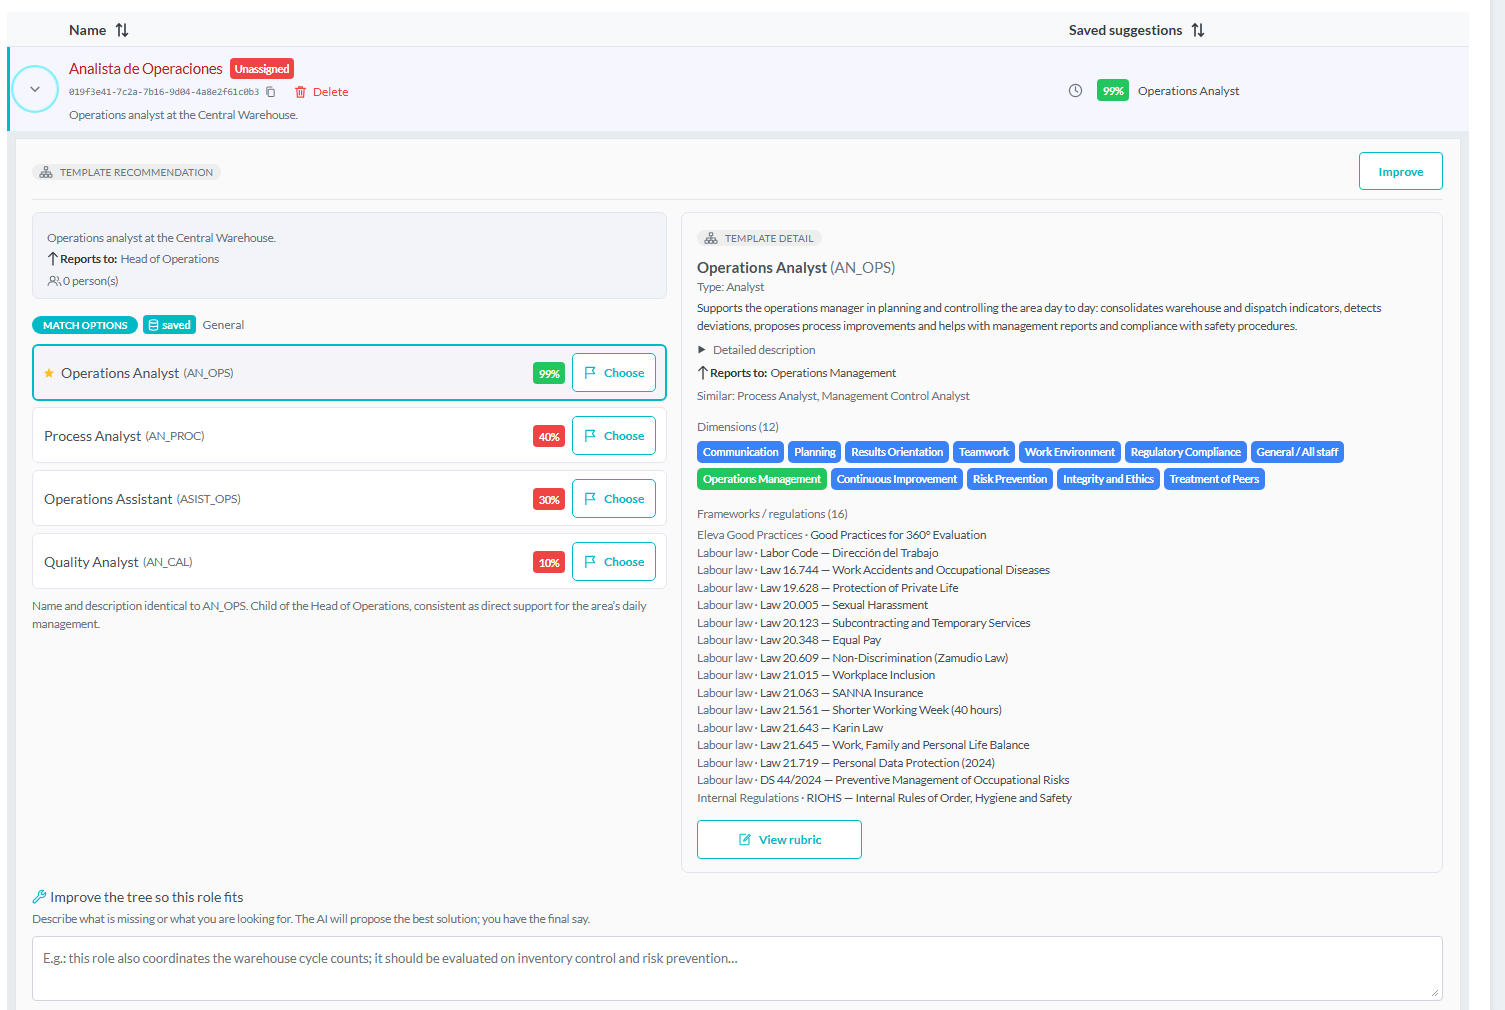
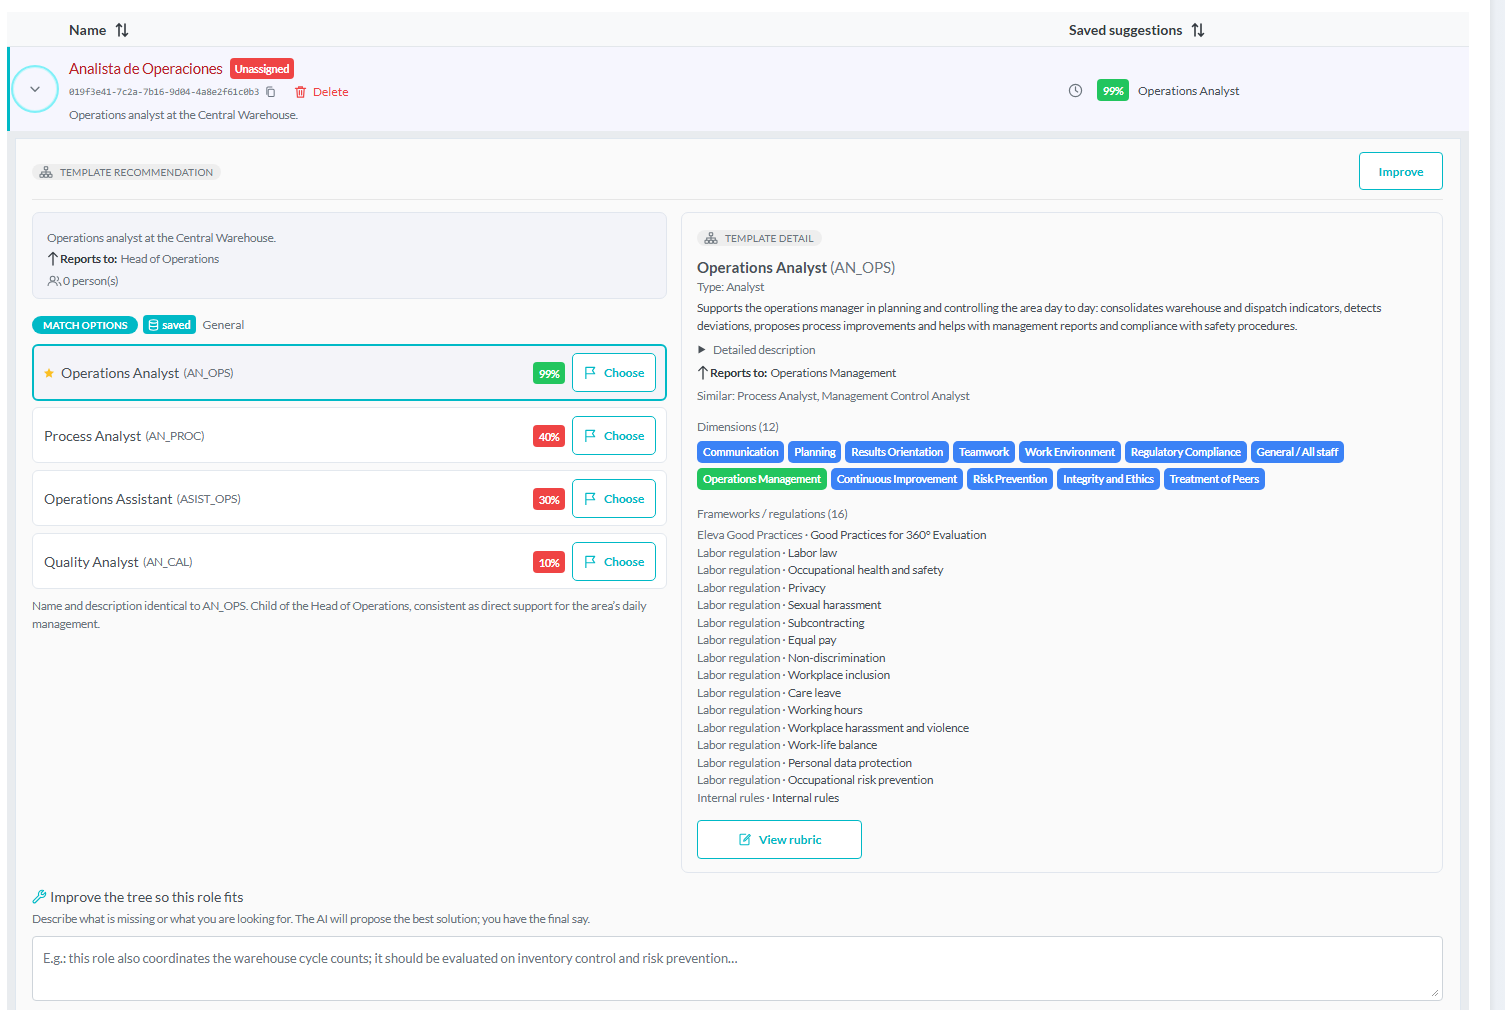
content: eleva.works no longer tied to Chile; neutral rotating phrases
- Landing and methodology copy (ES/EN) refer to the labour regulations that
  apply to the company instead of Chilean law: the example rubric now lists
  regulation areas (labour law, workplace harassment, equal pay,
  non-discrimination, health and safety, data protection...) without law
  numbers; tagline and footer drop "in Chile"; the English FAQ keeps the GDPR
  as a familiar reference.
- Product mockups re-rendered with the same regulation areas; Spanish name
  variants labelled ES.
- Hero rotating phrases: "sin formularios planos" / "without flat forms" and
  "con la normativa vigente" / "with current regulations".
- Regulation inset crop moved up to include its heading.
- Kept: Eleva SpA's address and governing law in the legal pages, and the
  Startup Chile award.

Changed region(s): [[0.4684, 0.5218, 0.7183, 0.798]]

diff --git a/design/mockups/generated-evaluation-rubric.html b/design/mockups/generated-evaluation-rubric.html
@@ -73,23 +73,23 @@ es:{title:'Pauta evaluativa generada',role:'Gerente General',meta:'GG · 116 pre
  dimsH:'Dimensiones del cargo (11)',
  dims:['Administración y Finanzas','Adquisiciones y Logística','Comunicación','Cuidado del Entorno','Cumplimiento Normativo','General / Todos los trabajadores','Gestión de Equipos','Liderazgo','Planificación','Trato con Clientes','Trato con Pares'],
  normsH:'Normativas y marcos que esta pauta evalúa (12)',
- ndesc:'Las preguntas seleccionadas para este cargo se alinean con la siguiente normativa nacional y marcos profesionales:',
+ ndesc:'Las preguntas seleccionadas para este cargo se alinean con la siguiente normativa vigente y marcos profesionales:',
  norms:[['Buenas Prácticas Eleva','Buenas Prácticas de Evaluación 360°'],
-  ['Derechos Fundamentales','Ley 19.628 — Protección de la Vida Privada'],
-  ['Derechos Fundamentales','Ley 20.609 — Medidas contra la Discriminación'],
-  ['Derechos Fundamentales','Ley 21.719 — Protección de Datos Personales (2024)'],
-  ['Normativa Interna','RIOHS — Reglamento Interno de Orden, Higiene y Seguridad'],
-  ['Normativa Laboral','Código del Trabajo — Dirección del Trabajo'],
-  ['Normativa Laboral','Ley 20.005 — Acoso Sexual'],
-  ['Normativa Laboral','Ley 20.348 — Igualdad de Remuneraciones'],
-  ['Normativa Laboral','Ley 21.015 — Inclusión Laboral'],
-  ['Normativa Laboral','Ley 21.643 — Ley Karin'],
-  ['Seguros Laborales','Ley 16.744 — Accidentes del Trabajo y Enfermedades Profesionales'],
-  ['Seguros Laborales','Ley 21.063 — Seguro SANNA']],
+  ['Derechos Fundamentales','Privacidad'],
+  ['Derechos Fundamentales','No discriminación'],
+  ['Derechos Fundamentales','Protección de datos personales'],
+  ['Normativa Interna','Reglamento interno'],
+  ['Normativa laboral','Legislación laboral'],
+  ['Normativa laboral','Acoso sexual'],
+  ['Normativa laboral','Igualdad salarial'],
+  ['Normativa laboral','Inclusión laboral'],
+  ['Normativa laboral','Acoso laboral y violencia en el trabajo'],
+  ['Seguridad y salud','Seguridad y salud en el trabajo'],
+  ['Seguridad y salud','Licencias de cuidado']],
  grouped:'Preguntas agrupadas por marco y área',frames:'2 marcos',expand:'Expandir',collapse:'Colapsar',eje:'EJE TRANSVERSAL',
  gT:'General',gS:'Preguntas transversales del marco',mand:'Obligatoria',
  P:{sub:'Subordinado',jef:'Jefatura',par:'Par',auto:'Auto'},
- L:{bp:'Buenas Prácticas de Evaluación 360°',ct:'Código del Trabajo — Dirección del Trabajo',karin:'Ley 21.643 — Ley Karin',disc:'Ley 20.609 — No Discriminación',acc:'Ley 16.744 — Accidentes del Trabajo y Enfermedades Profesionales',riohs:'RIOHS — Reglamento Interno de Orden, Higiene y Seguridad'},
+ L:{bp:'Buenas Prácticas de Evaluación 360°',ct:'Legislación laboral',harass:'Acoso laboral y violencia en el trabajo',disc:'No discriminación',acc:'Seguridad y salud en el trabajo',rules:'Reglamento interno'},
  A:{pares:'Trato con Pares',gen:'General / Todos los trabajadores',adq:'Adquisiciones y Logística'},
  Q:['Mantiene un trato respetuoso con todas las personas de la organización (pares, equipo, clientes y proveedores)',
   'Promueve un ambiente de trabajo seguro y saludable para todos los colaboradores, en cualquier área de la empresa.',
@@ -102,23 +102,23 @@ en:{title:'Generated evaluation rubric',role:'General Manager',meta:'GG · 116 q
  dimsH:'Role dimensions (11)',
  dims:['Administration and Finance','Procurement and Logistics','Communication','Care of the Environment','Regulatory Compliance','General / All staff','Team Management','Leadership','Planning','Dealing with Clients','Dealing with Peers'],
  normsH:'Regulations and frameworks this rubric evaluates (12)',
- ndesc:'The questions selected for this role are aligned with the following national regulations and professional frameworks:',
+ ndesc:'The questions selected for this role are aligned with the following applicable regulations and professional frameworks:',
  norms:[['Eleva good practice','Good Practice in 360° Evaluation'],
-  ['Fundamental rights','Law 19.628 — Protection of Private Life'],
-  ['Fundamental rights','Law 20.609 — Anti-Discrimination Measures'],
-  ['Fundamental rights','Law 21.719 — Personal Data Protection (2024)'],
-  ['Internal rules','RIOHS — Internal Regulations on Order, Hygiene and Safety'],
-  ['Labor regulation','Labor Code — Labor Directorate'],
-  ['Labor regulation','Law 20.005 — Sexual Harassment'],
-  ['Labor regulation','Law 20.348 — Equal Pay'],
-  ['Labor regulation','Law 21.015 — Labor Inclusion'],
-  ['Labor regulation','Law 21.643 — Karin Law'],
-  ['Work insurance','Law 16.744 — Work Accidents and Occupational Diseases'],
-  ['Work insurance','Law 21.063 — SANNA Insurance']],
+  ['Fundamental rights','Privacy'],
+  ['Fundamental rights','Non-discrimination'],
+  ['Fundamental rights','Personal data protection'],
+  ['Internal rules','Internal rules'],
+  ['Labor regulation','Labor law'],
+  ['Labor regulation','Sexual harassment'],
+  ['Labor regulation','Equal pay'],
+  ['Labor regulation','Workplace inclusion'],
+  ['Labor regulation','Workplace harassment and violence'],
+  ['Health and safety','Occupational health and safety'],
+  ['Health and safety','Care leave']],
  grouped:'Questions grouped by framework and area',frames:'2 frameworks',expand:'Expand',collapse:'Collapse',eje:'CROSS-CUTTING AXIS',
  gT:'General',gS:'Cross-cutting questions of the framework',mand:'Mandatory',
  P:{sub:'Upward',jef:'Manager',par:'Peer',auto:'Self'},
- L:{bp:'Good Practice in 360° Evaluation',ct:'Labor Code — Labor Directorate',karin:'Law 21.643 — Karin Law',disc:'Law 20.609 — Non-Discrimination',acc:'Law 16.744 — Work Accidents and Occupational Diseases',riohs:'RIOHS — Internal Regulations on Order, Hygiene and Safety'},
+ L:{bp:'Good Practice in 360° Evaluation',ct:'Labor law',harass:'Workplace harassment and violence',disc:'Non-discrimination',acc:'Occupational health and safety',rules:'Internal rules'},
  A:{pares:'Dealing with Peers',gen:'General / All staff',adq:'Procurement and Logistics'},
  Q:['Maintains respectful treatment of everyone in the organization (peers, team, clients and suppliers)',
   'Promotes a safe and healthy work environment for every collaborator, in every area of the company.',
@@ -139,13 +139,13 @@ let L = `<div class="role">${T.role}</div><div class="rmeta">${T.meta}</div><div
 document.getElementById('left').innerHTML = L;
 const P=T.P, A=T.A, Lw=T.L;
 const qs = [
- {req:1,a:A.pares,p:['sub','jef','par','auto'],pr:'P0',l:['karin','bp','disc','ct']},
- {req:1,a:A.gen,p:['jef','par','auto','sub'],pr:'P0',l:['bp','acc','karin']},
+ {req:1,a:A.pares,p:['sub','jef','par','auto'],pr:'P0',l:['harass','bp','disc','ct']},
+ {req:1,a:A.gen,p:['jef','par','auto','sub'],pr:'P0',l:['bp','acc','harass']},
  {req:1,a:A.gen,p:['sub','par','jef','auto'],pr:'P0',l:['ct','bp']},
  {a:A.adq,p:['auto','jef','par'],pr:'P1',l:['bp','ct']},
  {a:A.adq,p:['par','jef','auto'],pr:'P1',l:['bp','ct']},
  {a:A.gen,p:['auto','par','jef','sub'],pr:'P2',l:['bp']},
- {a:A.gen,p:['auto','par','jef','sub'],pr:'P2',l:['bp','riohs']}
+ {a:A.gen,p:['auto','par','jef','sub'],pr:'P2',l:['bp','rules']}
 ];
 const qh = qs.map((q,i)=>`<div class="q${q.req?' req':''}"><div class="num">${i+1}</div><div class="tx">${T.Q[i]}</div>
 <div class="chips"><span class="c area">${I.tag}${q.a}</span>${q.p.map(k=>`<span class="c per">${I.per}${P[k]}</span>`).join('')}<span class="c pr">${I.flag}${q.pr}</span>${q.req?`<span class="c ob">${I.alert}${T.mand}</span>`:''}</div>

diff --git a/design/mockups/role-catalog-tree.html b/design/mockups/role-catalog-tree.html
@@ -106,7 +106,7 @@ const L={es:{title:'Catálogo Eleva — Cargos',subtitle:'Árbol primitivo. Los 
   own:['Accionista Controlador','',[['en','Owner']]],
   r1:['Jefe de Adquisiciones','JADQ','Adquisiciones'],r2:['Jefe de Finanzas','JFIN','Finanzas'],r3:['Encargado de Recursos Humanos','JRRHH','Recursos Humanos'],r4:['Jefe de Seguridad','JSEG','Seguridad']}},
  en:{title:'Eleva Catalog — Roles',subtitle:'Primitive tree. Nodes are coloured by type family. Click a node to see its detail.',exp:'Export JSON',imp:'Import JSON',apply:'Apply to company',search:'Search role',q:'Manager',tpl:'Template',tplv:'Show all roles (no template)',count:'186 roles in the catalog.',hor:'Horizontal',ctr:'Center',cola:'Collapse all',expa:'Expand all',
- pt:'General Manager',fem:'feminine (es-CL): Gerenta General',desc:'Highest executive authority of the company. Leads commercial, operational and people management, ensuring compliance with the defined strategy and current regulation. Reports to the Board and represents the company before clients, collaborators and authorities.',
+ pt:'General Manager',fem:'feminine (es): Gerenta General',desc:'Highest executive authority of the company. Leads commercial, operational and people management, ensuring compliance with the defined strategy and current regulation. Reports to the Board and represents the company before clients, collaborators and authorities.',
  names:'ROLE NAMES',def:'DEFAULT',rep:'REPORTS TO',evl:'EVALUATES',board:'Board',
  ev:['Chief Compliance Officer','Communications Lead','Controller','Executive Assistant','Finance Manager','General Counsel','Internal Audit Lead','Operations Manager','People Manager','Receptionist','Sales Manager','Sustainability Lead','Technology Manager'],
  nodes:{gg:['General Manager','General Management',[['en','CEO'],['en','Managing Director'],'/',['cl','Gerente General'],'/',['cl','Director Ejecutivo']]],
@@ -117,7 +117,7 @@ const L={es:{title:'Catálogo Eleva — Cargos',subtitle:'Árbol primitivo. Los 
   r1:['Procurement Lead','JADQ','Procurement'],r2:['Finance Lead','JFIN','Finance'],r3:['Human Resources Officer','JRRHH','Human Resources'],r4:['Security Lead','JSEG','Security']}}};
 const lang=(new URLSearchParams(location.search).get('lang'))||'es';const T=L[lang];
 document.querySelectorAll('[data-t]').forEach(e=>e.textContent=T[e.dataset.t]);
-const CL='<svg width="30" height="20" viewBox="0 0 30 20"><defs><clipPath id="r"><rect width="30" height="20" rx="3"/></clipPath></defs><g clip-path="url(#r)"><rect width="30" height="20" fill="#fff"/><rect y="10" width="30" height="10" fill="#d52b1e"/><rect width="11" height="10" fill="#0039a6"/><path d="M5.5 2.2l.9 2.6h2.7l-2.2 1.6.8 2.6-2.2-1.6-2.2 1.6.8-2.6-2.2-1.6h2.7z" fill="#fff"/></g><rect x=".5" y=".5" width="29" height="19" rx="2.5" fill="none" stroke="rgba(0,0,0,.15)"/></svg>';
+const CL='<svg width="30" height="20" viewBox="0 0 30 20"><defs><clipPath id="r"><rect width="30" height="20" rx="3"/></clipPath></defs><g clip-path="url(#r)"><rect width="30" height="20" fill="#c60b1e"/><rect y="5" width="30" height="10" fill="#ffc400"/></g><rect x=".5" y=".5" width="29" height="19" rx="2.5" fill="none" stroke="rgba(0,0,0,.15)"/></svg>';
 const UK='<svg width="30" height="20" viewBox="0 0 60 40"><defs><clipPath id="u"><rect width="60" height="40" rx="6"/></clipPath></defs><g clip-path="url(#u)"><rect width="60" height="40" fill="#012169"/><path d="M0 0l60 40M60 0L0 40" stroke="#fff" stroke-width="8"/><path d="M0 0l60 40M60 0L0 40" stroke="#c8102e" stroke-width="3"/><path d="M30 0v40M0 20h60" stroke="#fff" stroke-width="12"/><path d="M30 0v40M0 20h60" stroke="#c8102e" stroke-width="7"/></g></svg>';
 const fl=(k,w)=>(k==='en'?UK:CL).replace('width="30" height="20"',`width="${w}" height="${Math.round(w*2/3)}"`);
 const chipsHTML=a=>{const rows=[[]];for(const c of a){if(c==='/')rows.push([]);else rows[rows.length-1].push(c)}return '<div class="chips">'+rows.map(r=>'<div class="crow">'+r.map(c=>`<div class="chip">${fl(c[0],22)}${c[1]}</div>`).join('')+'</div>').join('')+'</div>'};
@@ -142,7 +142,7 @@ btn(830,442,'+');btn(830,720,'−');btn(292,933,'−');
 // panel name groups
 const card=(title,rows,def)=>`<div class="nc${def?' def':''}"><div class="h">${title}${def?`<span class="bdg">${T.def}</span>`:''}</div>${rows.map(r=>`<div class="r"><span class="g ${r[0]==='–'?'d':r[0]==='M'?'m':'x'}">${r[0]}</span>${r[1]}</div>`).join('')}</div>`;
 document.getElementById('gEN').innerHTML=`<div class="glbl">${fl('en',18)}EN</div>`+card('General Manager',[['–','General Manager']],1)+card('CEO',[['–','CEO']])+card('Managing Director',[['–','Managing Director']]);
-document.getElementById('gES').innerHTML=`<div class="glbl">${fl('cl',18)}ES-CL</div>`+card('Gerente General',[['M','Gerente General'],['X','Gerente / Gerenta General'],['F','Gerenta General']],1)+card('Director Ejecutivo',[['M','Director Ejecutivo'],['X','Director/a Ejecutivo/a'],['F','Directora Ejecutiva']]);
+document.getElementById('gES').innerHTML=`<div class="glbl">${fl('cl',18)}ES</div>`+card('Gerente General',[['M','Gerente General'],['X','Gerente / Gerenta General'],['F','Gerenta General']],1)+card('Director Ejecutivo',[['M','Director Ejecutivo'],['X','Director/a Ejecutivo/a'],['F','Directora Ejecutiva']]);
 document.querySelectorAll('.g').forEach(g=>{if(g.textContent==='–'){g.textContent='—'}});
 const ev=document.getElementById('ev');
 ev.innerHTML=`<span class="rl" style="height:22px"><svg width="13" height="13" viewBox="0 0 24 24" fill="none" stroke="#666" stroke-width="2"><path d="M12 4v16M5 13l7 7 7-7"/></svg>${T.evl}</span>`+T.ev.map(s=>`<span class="pill">${s}</span>`).join('');

diff --git a/design/mockups/role-template-ai-match.html b/design/mockups/role-template-ai-match.html
@@ -78,21 +78,21 @@ const T = {
   dimList:[['Comunicación'],['Planificación'],['Orientación a Resultados'],['Trabajo en Equipo'],['Ambiente Laboral'],['Cumplimiento Normativo'],['General / Todos los trabajadores'],['Gestión de Operaciones',1],['Mejora Continua'],['Prevención de Riesgos'],['Probidad y Ética'],['Trato con Pares']],
   frames:'Marcos / normativas (16)',
   laws:[['Buenas Prácticas Eleva','Buenas Prácticas de Evaluación 360°'],
-   ['Normativa Laboral','Código del Trabajo — Dirección del Trabajo'],
-   ['Normativa Laboral','Ley 16.744 — Accidentes del Trabajo y Enfermedades Profesionales'],
-   ['Normativa Laboral','Ley 19.628 — Protección de la Vida Privada'],
-   ['Normativa Laboral','Ley 20.005 — Acoso Sexual'],
-   ['Normativa Laboral','Ley 20.123 — Subcontratación y Servicios Transitorios'],
-   ['Normativa Laboral','Ley 20.348 — Igualdad de Remuneraciones'],
-   ['Normativa Laboral','Ley 20.609 — No Discriminación (Ley Zamudio)'],
-   ['Normativa Laboral','Ley 21.015 — Inclusión Laboral'],
-   ['Normativa Laboral','Ley 21.063 — Seguro SANNA'],
-   ['Normativa Laboral','Ley 21.561 — Reducción de la Jornada (40 horas)'],
-   ['Normativa Laboral','Ley 21.643 — Ley Karin'],
-   ['Normativa Laboral','Ley 21.645 — Conciliación de la Vida Personal, Familiar y Laboral'],
-   ['Normativa Laboral','Ley 21.719 — Protección de Datos Personales (2024)'],
-   ['Normativa Laboral','DS 44/2024 — Gestión Preventiva de los Riesgos Laborales'],
-   ['Reglamento Interno','RIOHS — Reglamento Interno de Orden, Higiene y Seguridad']],
+   ['Normativa laboral','Legislación laboral'],
+   ['Normativa laboral','Seguridad y salud en el trabajo'],
+   ['Normativa laboral','Privacidad'],
+   ['Normativa laboral','Acoso sexual'],
+   ['Normativa laboral','Subcontratación'],
+   ['Normativa laboral','Igualdad salarial'],
+   ['Normativa laboral','No discriminación'],
+   ['Normativa laboral','Inclusión laboral'],
+   ['Normativa laboral','Licencias de cuidado'],
+   ['Normativa laboral','Jornada laboral'],
+   ['Normativa laboral','Acoso laboral y violencia en el trabajo'],
+   ['Normativa laboral','Conciliación de la vida personal y laboral'],
+   ['Normativa laboral','Protección de datos personales'],
+   ['Normativa laboral','Prevención de riesgos laborales'],
+   ['Normativa Interna','Reglamento interno']],
   view:'Ver pauta evaluativa',fix:'Mejorar el árbol para que calce este cargo',
   fixSub:'Describe qué falta o qué buscas. La IA propondrá la mejor solución; tú tienes la última palabra.',
   ph:'Ej.: este cargo también coordina el inventario cíclico de la bodega; debería evaluarse en control de inventario y en prevención de riesgos…'},
@@ -109,21 +109,21 @@ const T = {
   dimList:[['Communication'],['Planning'],['Results Orientation'],['Teamwork'],['Work Environment'],['Regulatory Compliance'],['General / All staff'],['Operations Management',1],['Continuous Improvement'],['Risk Prevention'],['Integrity and Ethics'],['Treatment of Peers']],
   frames:'Frameworks / regulations (16)',
   laws:[['Eleva Good Practices','Good Practices for 360° Evaluation'],
-   ['Labour law','Labor Code — Dirección del Trabajo'],
-   ['Labour law','Law 16.744 — Work Accidents and Occupational Diseases'],
-   ['Labour law','Law 19.628 — Protection of Private Life'],
-   ['Labour law','Law 20.005 — Sexual Harassment'],
-   ['Labour law','Law 20.123 — Subcontracting and Temporary Services'],
-   ['Labour law','Law 20.348 — Equal Pay'],
-   ['Labour law','Law 20.609 — Non-Discrimination (Zamudio Law)'],
-   ['Labour law','Law 21.015 — Workplace Inclusion'],
-   ['Labour law','Law 21.063 — SANNA Insurance'],
-   ['Labour law','Law 21.561 — Shorter Working Week (40 hours)'],
-   ['Labour law','Law 21.643 — Karin Law'],
-   ['Labour law','Law 21.645 — Work, Family and Personal Life Balance'],
-   ['Labour law','Law 21.719 — Personal Data Protection (2024)'],
-   ['Labour law','DS 44/2024 — Preventive Management of Occupational Risks'],
-   ['Internal Regulations','RIOHS — Internal Rules of Order, Hygiene and Safety']],
+   ['Labor regulation','Labor law'],
+   ['Labor regulation','Occupational health and safety'],
+   ['Labor regulation','Privacy'],
+   ['Labor regulation','Sexual harassment'],
+   ['Labor regulation','Subcontracting'],
+   ['Labor regulation','Equal pay'],
+   ['Labor regulation','Non-discrimination'],
+   ['Labor regulation','Workplace inclusion'],
+   ['Labor regulation','Care leave'],
+   ['Labor regulation','Working hours'],
+   ['Labor regulation','Workplace harassment and violence'],
+   ['Labor regulation','Work-life balance'],
+   ['Labor regulation','Personal data protection'],
+   ['Labor regulation','Occupational risk prevention'],
+   ['Internal rules','Internal rules']],
   view:'View rubric',fix:'Improve the tree so this role fits',
   fixSub:'Describe what is missing or what you are looking for. The AI will propose the best solution; you have the final say.',
   ph:'E.g.: this role also coordinates the warehouse cycle counts; it should be evaluated on inventory control and risk prevention…'}

diff --git a/src/app/[locale]/terms/page.tsx b/src/app/[locale]/terms/page.tsx
@@ -41,7 +41,7 @@ export default async function TermsPage({ params }: Props) {
 
             <section>
               <h2 className="text-xl font-semibold text-white mb-3">2. Descripción del Servicio</h2>
-              <p>Eleva es una plataforma de evaluación de desempeño diseñada para empresas en Chile. Proporcionamos herramientas para configurar pautas por cargo, gestionar procesos de feedback 360° y generar reportes.</p>
+              <p>Eleva es una plataforma de evaluación de desempeño diseñada para empresas. Proporcionamos herramientas para configurar pautas por cargo, gestionar procesos de feedback 360° y generar reportes.</p>
             </section>
 
             <section>

diff --git a/src/components/concepts/a/NormativaA.tsx b/src/components/concepts/a/NormativaA.tsx
@@ -13,7 +13,7 @@ type Group = { issuer: string; items: { ref: string; name: string; matched: bool
 type PlateMsg = { fig: string; caption: string; alt: string };
 
 /** The rubric's own framework list (cropped below its heading, which carries a count). */
-const INSET = { src: '/images/app/generated-evaluation-rubric.png', w: 1390, h: 951, region: { x: 0, y: 405, w: 400, h: 546 } };
+const INSET = { src: '/images/app/generated-evaluation-rubric.png', w: 1390, h: 951, region: { x: 0, y: 345, w: 400, h: 546 } };
 
 /**
  * §07 Normativa. A HOLD section: the `[data-hold]` block (title + lead) runs the full grid
